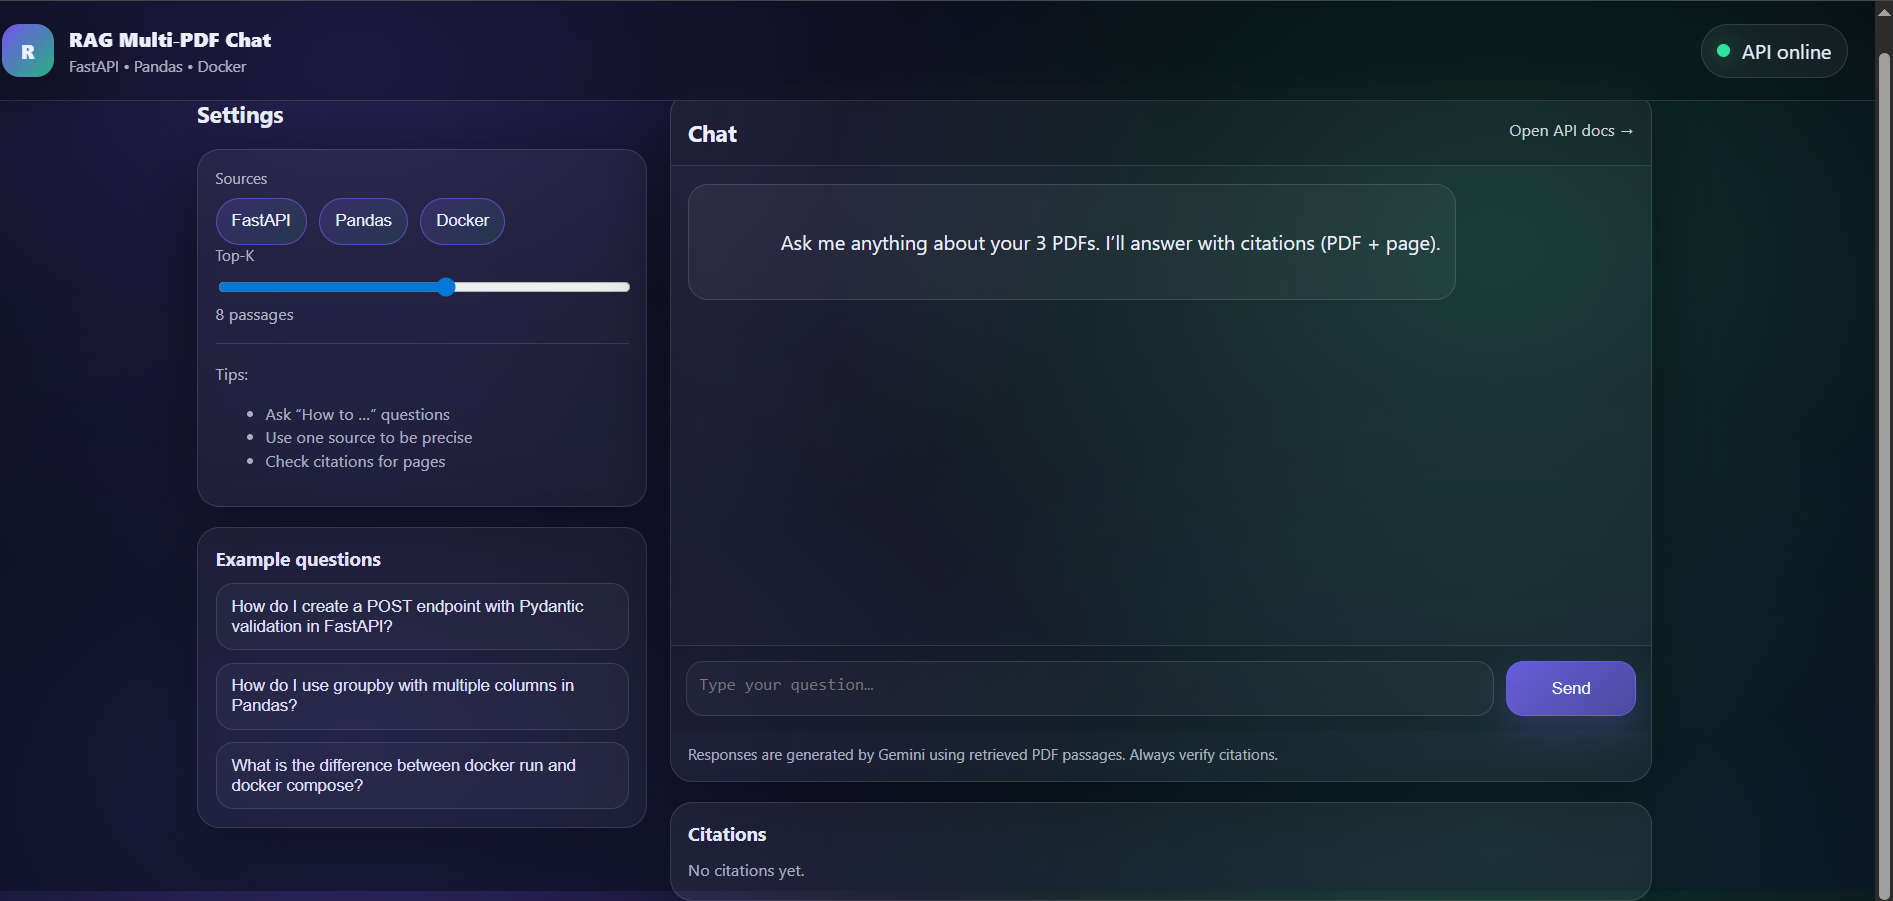
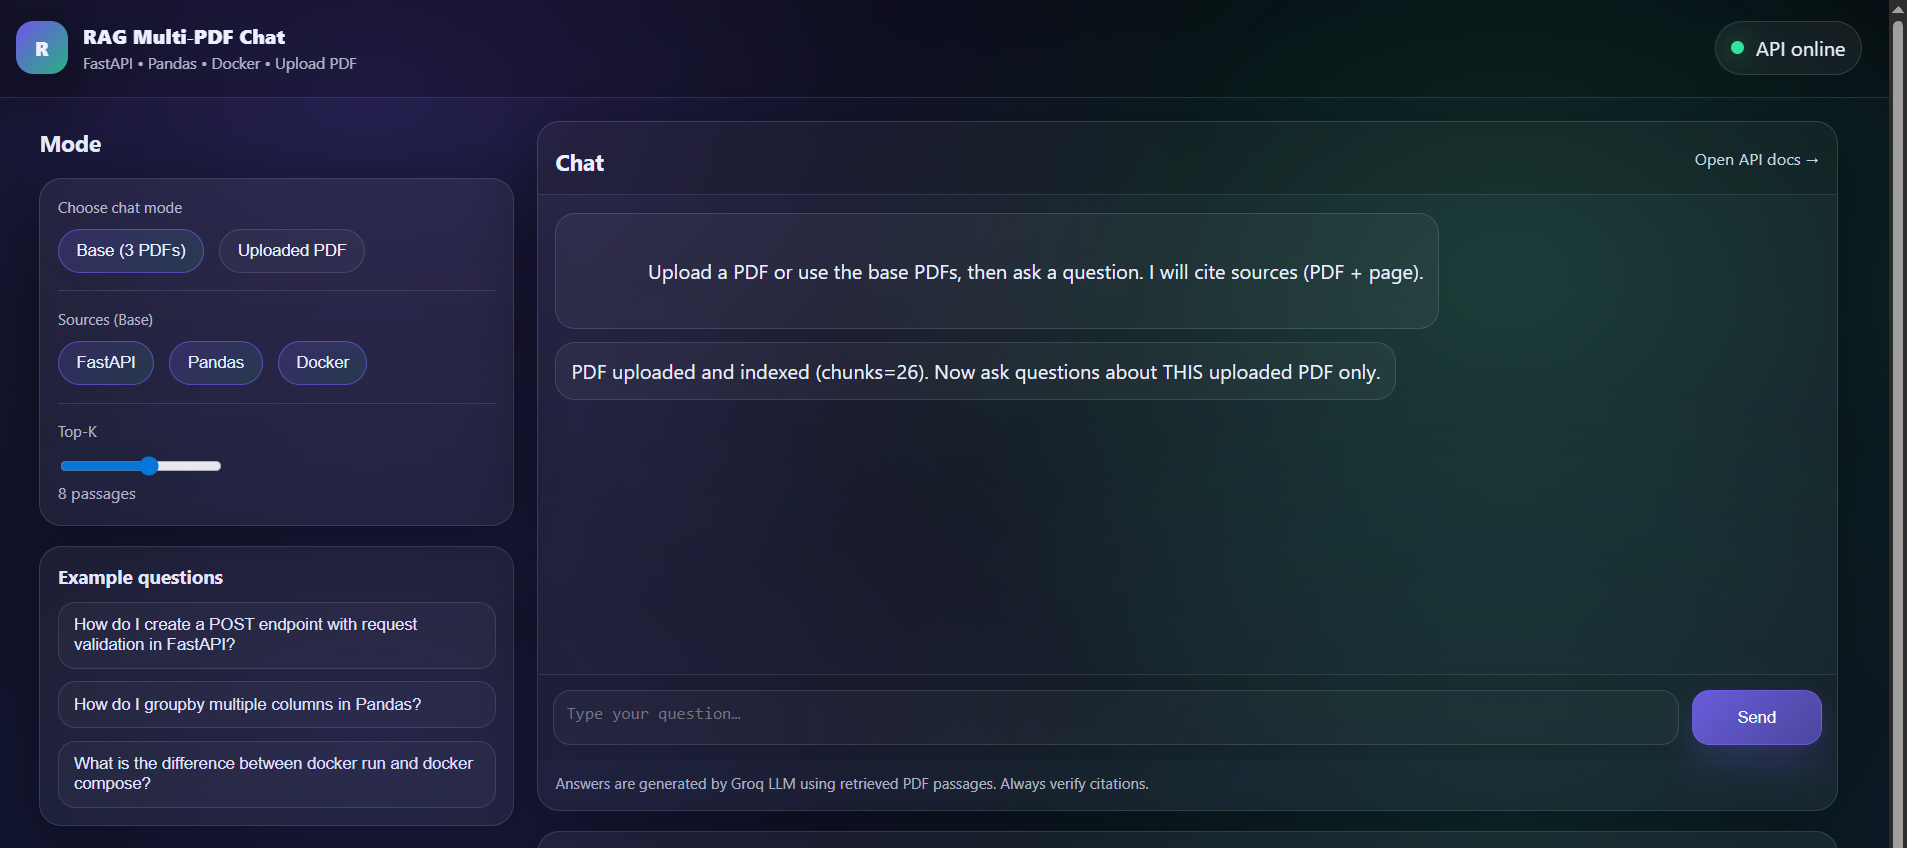
docs: fix README formatting and screenshots

diff --git a/readme.md b/readme.md
@@ -1,11 +1,14 @@
 # RAG Multi‑PDF Chatbot (FastAPI + FAISS + OCR + Groq)
 
-Un chatbot RAG (Retrieval‑Augmented Generation) qui répond aux questions à partir de **3 PDFs** (FastAPI, Pandas, Docker), avec :
-- extraction texte + **OCR** (pour code en image),
-- découpage en chunks,
-- embeddings + **FAISS** (recherche sémantique),
-- génération de réponse via **Groq API** (LLM),
-- citations (PDF + page),
+Un chatbot **RAG** (Retrieval‑Augmented Generation) qui répond aux questions à partir de :
+- **Base (3 PDFs)** : FastAPI, Pandas, Docker (indexés en local)
+- **Mode Upload** : l’utilisateur peut uploader **son propre PDF** et poser des questions dessus
+
+Fonctionne avec :
+- extraction texte + **OCR** (pour les 3 PDFs de base),
+- embeddings + **FAISS**,
+- génération via **Groq API** (LLM),
+- **citations** (PDF + page),
 - interface web (HTML/CSS/JS) servie par **FastAPI**.
 
 ---
@@ -17,7 +20,7 @@ Un chatbot RAG (Retrieval‑Augmented Generation) qui répond aux questions à p
 - [Prérequis](#prérequis)
 - [Installation](#installation)
 - [Configuration des clés API](#configuration-des-clés-api)
-- [Pipeline (build index)](#pipeline-build-index)
+- [Construire l’index (Base: 3 PDFs)](#construire-lindex-base-3-pdfs)
 - [Lancer l’application](#lancer-lapplication)
 - [Utiliser l’API](#utiliser-lapi)
 - [Interface Web](#interface-web)
@@ -28,51 +31,73 @@ Un chatbot RAG (Retrieval‑Augmented Generation) qui répond aux questions à p
 ---
 
 ## Fonctionnalités
- Ingestion de PDFs (texte sélectionnable)  
- OCR des pages “image” (code capturé en image) avec Tesseract  
- Chunking + metadata (source/pdf/page)  
- Embeddings `sentence-transformers/all-MiniLM-L6-v2`  
- Index vectoriel FAISS (cosine similarity)  
- Endpoint FastAPI `/chat` qui:
-- récupère les chunks pertinents,
-- construit un prompt “grounded”,
-- appelle un LLM via **Groq**,
-- renvoie réponse + citations
+### Mode Base (3 PDFs)
+- Extraction du texte + **OCR** (Tesseract) pour le code en image
+- Chunking + metadata (source/pdf/page)
+- Embeddings : `sentence-transformers/all-MiniLM-L6-v2`
+- Index vectoriel : **FAISS** (cosine similarity)
+- Endpoint `/chat` :
+  - retrieval top‑K passages
+  - prompt “grounded”
+  - appel Groq LLM
+  - réponse + citations (PDF + page)
 
- Page d’accueil “chat” design (frontend statique)
-
-
-## Architecture
-
-### Flux offline (préparation des données)
-`PDFs` → `extract_ocr.py` → `pages.jsonl`  
-`pages.jsonl` → `chunk.py` → `chunks.jsonl`  
-`chunks.jsonl` → `build_index.py` → `index/faiss.index + index/meta.json`
-
-### Flux online (chat)
-Question utilisateur → embeddings → FAISS topK → prompt avec contexte → Groq LLM → réponse + citations
+### Mode Upload (PDF utilisateur)
+- Endpoint `/upload` :
+  - upload PDF
+  - création d’un index FAISS **par document**
+  - retourne un `doc_id`
+- Endpoint `/chat_doc` :
+  - répond **uniquement** à partir du PDF uploadé (via `doc_id`)
+- Remarque : le mode Upload est **text-only (sans OCR)** par défaut (les PDFs scannés peuvent échouer).
 
 ---
 
-## Structure du projet 
+## Architecture
 
+### Flux offline (Base: 3 PDFs)
+`data/pdfs/*.pdf` → `extract_ocr.py` → `data/processed/pages.jsonl`  
+`pages.jsonl` → `chunk.py` → `data/processed/chunks.jsonl`  
+`chunks.jsonl` → `build_index.py` → `index/faiss.index + index/meta.json`
+
+### Flux online (chat)
+Question → embeddings → FAISS top‑K → prompt + contexte → Groq LLM → réponse + citations
+
+### Flux online (upload)
+Upload PDF → build index FAISS → `doc_id`  
+Question + `doc_id` → retrieval → Groq LLM → réponse + citations
+
+---
+
+
+## Structure du projet
+```text
 rag-multi-pdf-chatbot/
 ├─ README.md
 ├─ requirements.txt
+├─ .env.example
 ├─ .env                     
 │
+├─ assets/
+│  └─ screenshots/
+│     ├─ home.png
+│     ├─ rep.png
+│     └─ Mode.png
+│
 ├─ data/
-│  ├─ pdfs/
+│  ├─ pdfs/                  
 │  │  ├─ fastapi.pdf
 │  │  ├─ pandas.pdf
 │  │  └─ docker.pdf
-│  └─ processed/
+│  └─ processed/         
 │     ├─ pages.jsonl
 │     └─ chunks.jsonl
 │
-├─ index/
+├─ index/                    
 │  ├─ faiss.index
 │  └─ meta.json
+│
+├─ uploads/                
 │
 └─ src/
    ├─ extract_ocr.py
@@ -85,14 +110,13 @@ rag-multi-pdf-chatbot/
       │  └─ app.js
       └─ templates/
          └─ index.html
-## Interface
+```
 
-### Page d’accueil
+## Page d’accueil
 ![Home](assets/screenshots/home.png)
 
-### Chat + citations
+## Chat + citations
 ![Chat](assets/screenshots/rep.png)
 
-### Settings
-![Chat](assets/screenshots/settings.png)
-
+## Mode
+![Chat](assets/screenshots/Mode.png)
